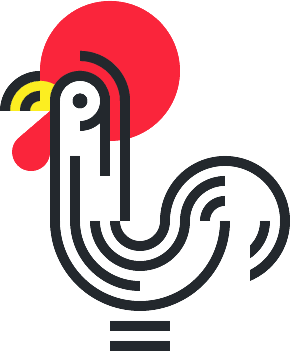
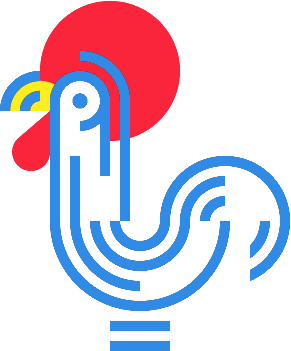
Final commit

Changed region(s): [[0.0, 0.1425, 1.0, 0.8832], [0.3711, 0.9687, 0.5876, 1.0], [0.3711, 0.9117, 0.5876, 0.9402]]

diff --git a/src/components/CryptoDetails.jsx b/src/components/CryptoDetails.jsx
@@ -45,7 +45,7 @@ const CryptoDetails = () => {
         <Title level={2} className="coin-name">
           {data?.data?.coin.name} ({data?.data?.coin.slug}) Price
         </Title>
-        <p>{cryptoDetails.name} preço atualizado em tempo real (USD). Veja valor estatísticos, market cap e supply.</p>
+        <p>{cryptoDetails.name} preço atualizado em tempo real (USD). Veja os valores estatísticos, market cap e supply.</p>
       </Col>
       <Select defaultValue="7d" className="select-timeperiod" placeholder="Select Timeperiod" onChange={(value) => setTimeperiod(value)}>
         {time.map((date) => <Option key={date}>{date}</Option>)}
@@ -85,7 +85,7 @@ const CryptoDetails = () => {
       </Col>
       <Col className="coin-desc-link">
         <Row className="coin-desc">
-          <Title level={3} className="coin-details-heading">What is {cryptoDetails.name}?</Title>
+          <Title level={3} className="coin-details-heading">O que é {cryptoDetails.name}?</Title>
           {HTMLReactParser(cryptoDetails.description)}
         </Row>
         <Col className="coin-links">

diff --git a/src/App.js b/src/App.js
@@ -34,15 +34,16 @@ const App = () => (
       </Layout>
       <div className="footer">
         <Typography.Title level={5} style={{ color: 'white', textAlign: 'center' }}>Copyright © 2021
+          <br />
           <Link to="/">
-            Cryptoverse Inc.
+            Crypto Galo
           </Link> <br />
-          All Rights Reserved.
+          Todos Direitos Reservados.
         </Typography.Title>
         <Space>
           <Link to="/">Home</Link>
-          <Link to="/exchanges">Exchanges</Link>
-          <Link to="/news">News</Link>
+          <Link to="/exchanges">Corretoras</Link>
+          <Link to="/news">Notícias</Link>
         </Space>
       </div>
     </div>

diff --git a/public/index.html b/public/index.html
@@ -4,11 +4,11 @@
     <meta charset="utf-8" />
     <link rel="icon" href="./cryptocurrency.png" />
     <meta name="viewport" content="width=device-width, initial-scale=1" />
-    <meta name="theme-color" content="#000000" />
+    <meta name="theme-color" content="#005db4" />
     <meta name="description" content="Web site created using create-react-app" />
     <link rel="apple-touch-icon" href="%PUBLIC_URL%/logo192.png" />
     <link rel="manifest" href="%PUBLIC_URL%/manifest.json" />
-    <title>Cryptoverse</title>
+    <title>Crypto Galo</title>
   </head>
   <body>
     <noscript>You need to enable JavaScript to run this app.</noscript>

diff --git a/src/components/LineChart.jsx b/src/components/LineChart.jsx
@@ -21,11 +21,11 @@ const LineChart = ({ coinHistory, currentPrice, coinName }) => {
     labels: coinTimestamp,
     datasets: [
       {
-        label: 'Preço em Dólar Americano',
+        label: 'Preço em Dólar Americano (USD)',
         data: coinPrice,
         fill: false,
-        backgroundColor: '#0071bd',
-        borderColor: '#0071bd',
+        backgroundColor: '#005db4',
+        borderColor: '#005db4',
       },
     ],
   };
